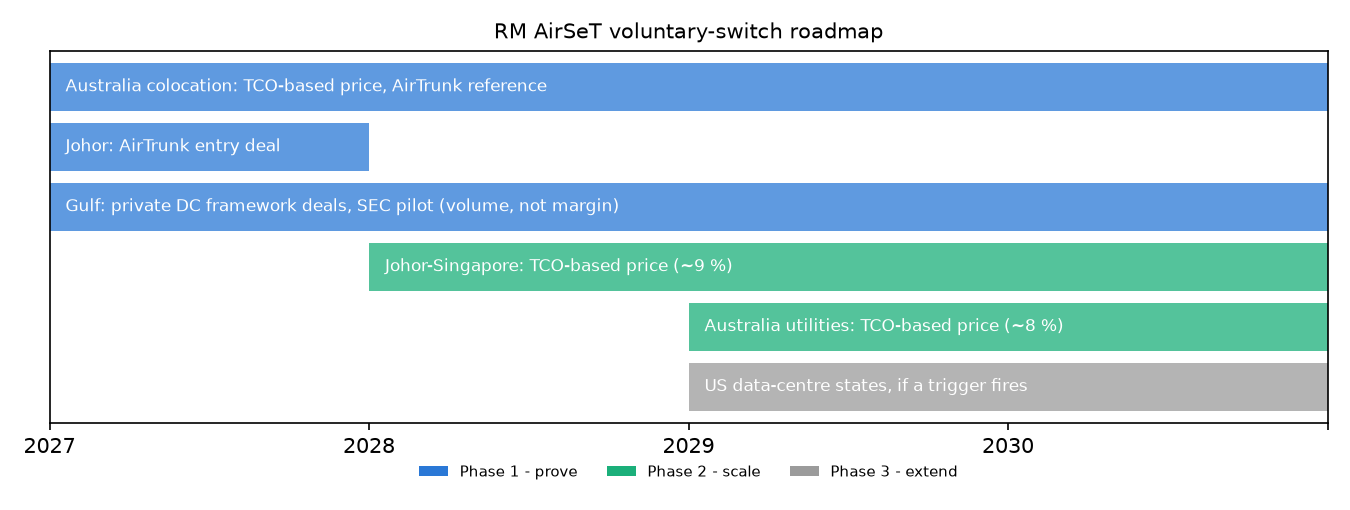
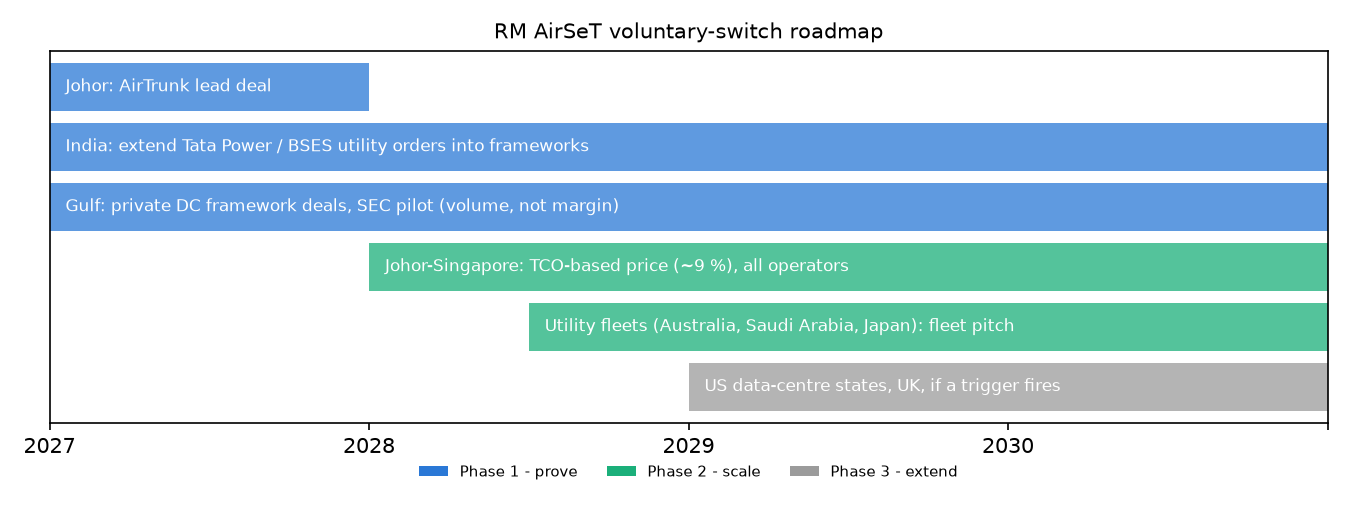
P2 strategy: revise 04 with customer needs and new evidence (E175-E185)

diff --git a/src/strategy.py b/src/strategy.py
@@ -158,10 +158,20 @@ def triggers(p2: MarketEvidence) -> pd.DataFrame:
          "src/tco.py, 02 4.4",
          "Move ESG-led segments from TCO-based price to list price"),
         ("SF6 rule in a target market", "status 0/1 -> 2 or 3 (phase-out adopted or ban)",
-         "market_evidence/regulation.csv", "Accelerate: future-proof pitch, list price, more sales capacity"),
+         "market_evidence/regulation.csv",
+         "Accelerate: 'no SF6 obligations' pitch, list price, more sales capacity"),
         ("SF6-free rival price (Eaton, Chinese dry-air RMUs)",
-         "below AirSeT's TCO-based price in a target market", "competitors.csv",
-         "Defend with bundle (take-back, monitoring) before cutting price; pause if below floor"),
+         "below AirSeT's TCO-based price in a target market", "competitors.csv, E180",
+         "Quote RM6 base + AirSeT option; keep the bundle for fleets; pause if below floor"),
+        ("RM6 end-of-sale date", "Schneider announces one for a target market",
+         "Schneider product team",
+         "Accelerate phased-build sales: expansion-proof pitch to campuses with later phases"),
+        ("Taxonomy or lender criterion naming SF6", "a green-loan or taxonomy rule in a target "
+         "market requires or rewards SF6-free switchgear", "E182, E183",
+         "Accelerate: ESG-financed customers must comply; list price for them"),
+        ("Local AirSeT production", "Schneider decides to build or assemble AirSeT in India or "
+         "Saudi Arabia", "E176, E178",
+         "Accelerate India and Gulf utility frameworks; re-check the extra cost and lead time"),
     ]
     return pd.DataFrame(rows, columns=["watch", "threshold", "source", "action"])
 

diff --git a/src/strategy_plots.py b/src/strategy_plots.py
@@ -18,12 +18,12 @@ SEGMENT_COLORS = {
 
 # Roadmap phases: (label, start, end, row). Years are fractional for drawing.
 ROADMAP = [
-    ("Australia colocation: TCO-based price, AirTrunk reference", 2027.0, 2031.0, "Phase 1 - prove"),
-    ("Johor: AirTrunk entry deal", 2027.0, 2028.0, "Phase 1 - prove"),
+    ("Johor: AirTrunk lead deal", 2027.0, 2028.0, "Phase 1 - prove"),
+    ("India: extend Tata Power / BSES utility orders into frameworks", 2027.0, 2031.0, "Phase 1 - prove"),
     ("Gulf: private DC framework deals, SEC pilot (volume, not margin)", 2027.0, 2031.0, "Phase 1 - prove"),
-    ("Johor-Singapore: TCO-based price (~9 %)", 2028.0, 2031.0, "Phase 2 - scale"),
-    ("Australia utilities: TCO-based price (~8 %)", 2029.0, 2031.0, "Phase 2 - scale"),
-    ("US data-centre states, if a trigger fires", 2029.0, 2031.0, "Phase 3 - extend"),
+    ("Johor-Singapore: TCO-based price (~9 %), all operators", 2028.0, 2031.0, "Phase 2 - scale"),
+    ("Utility fleets (Australia, Saudi Arabia, Japan): fleet pitch", 2028.5, 2031.0, "Phase 2 - scale"),
+    ("US data-centre states, UK, if a trigger fires", 2029.0, 2031.0, "Phase 3 - extend"),
 ]
 
 
